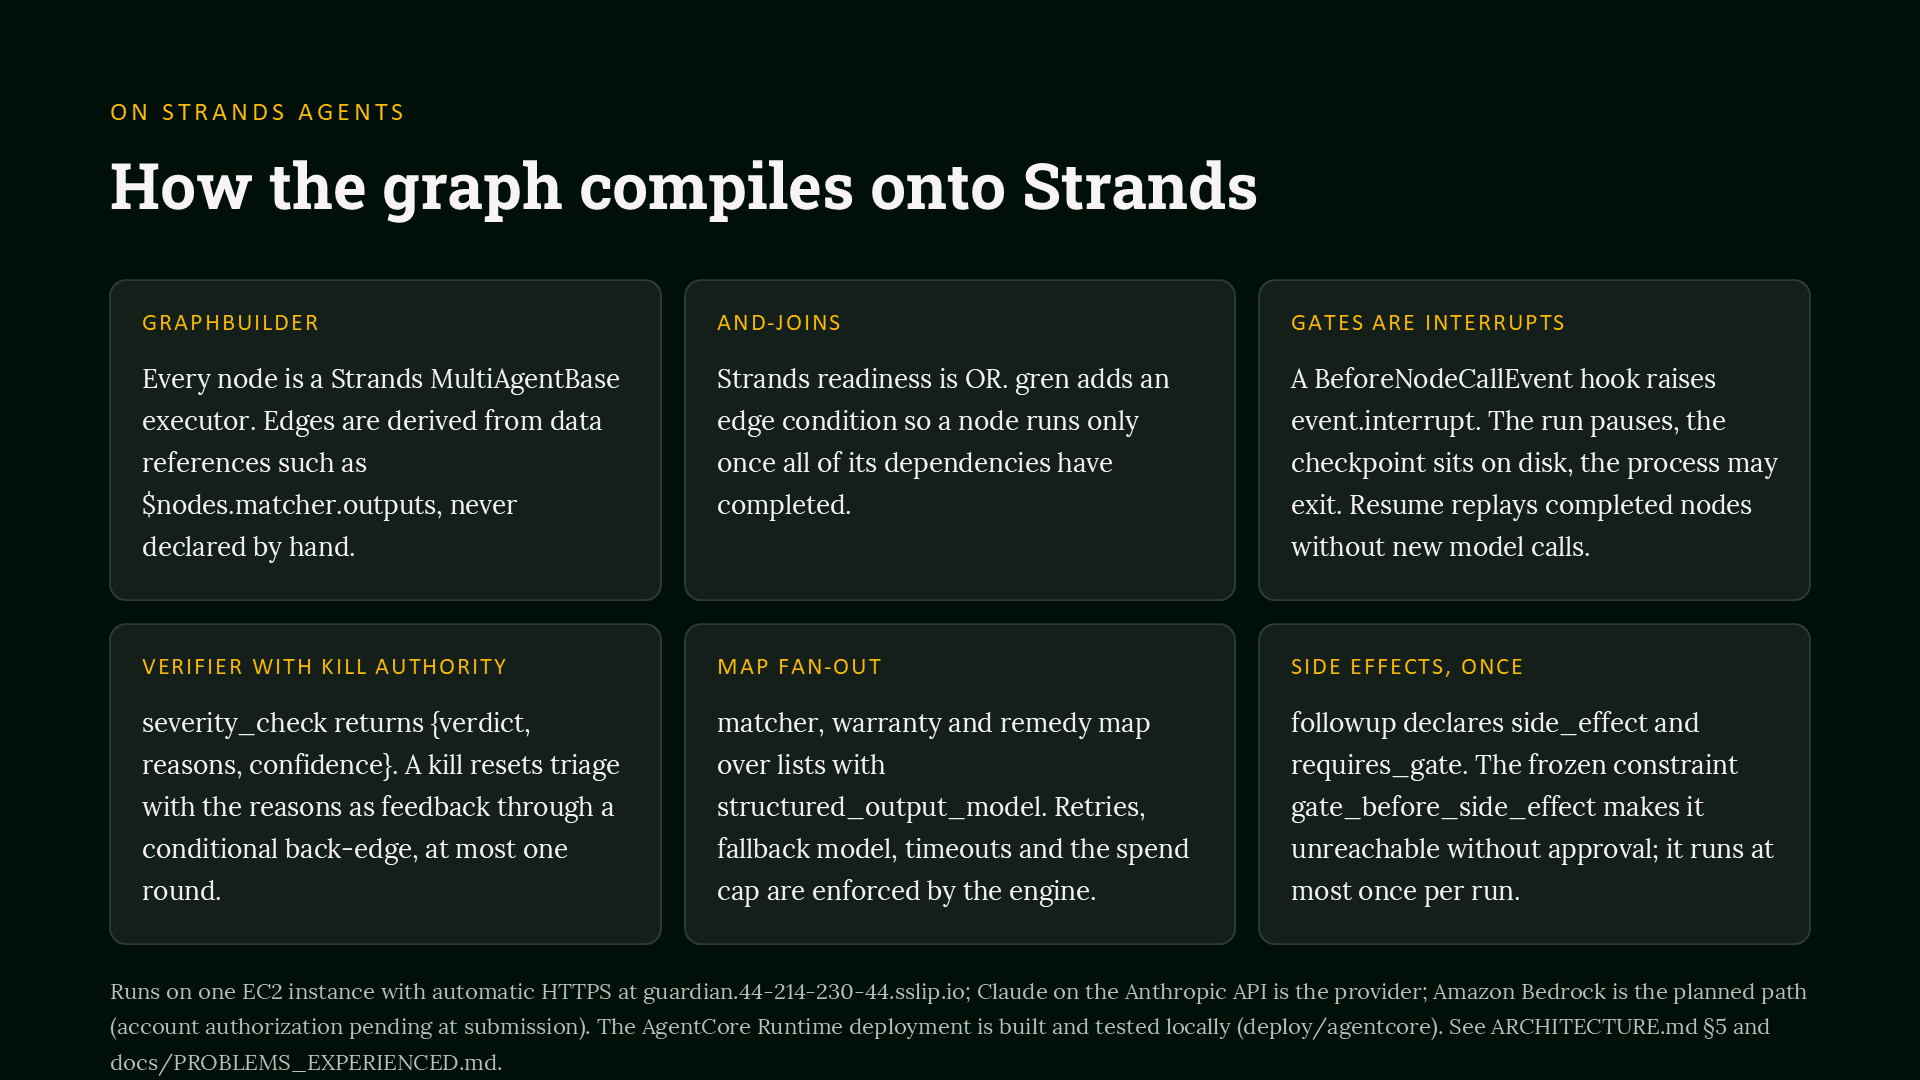
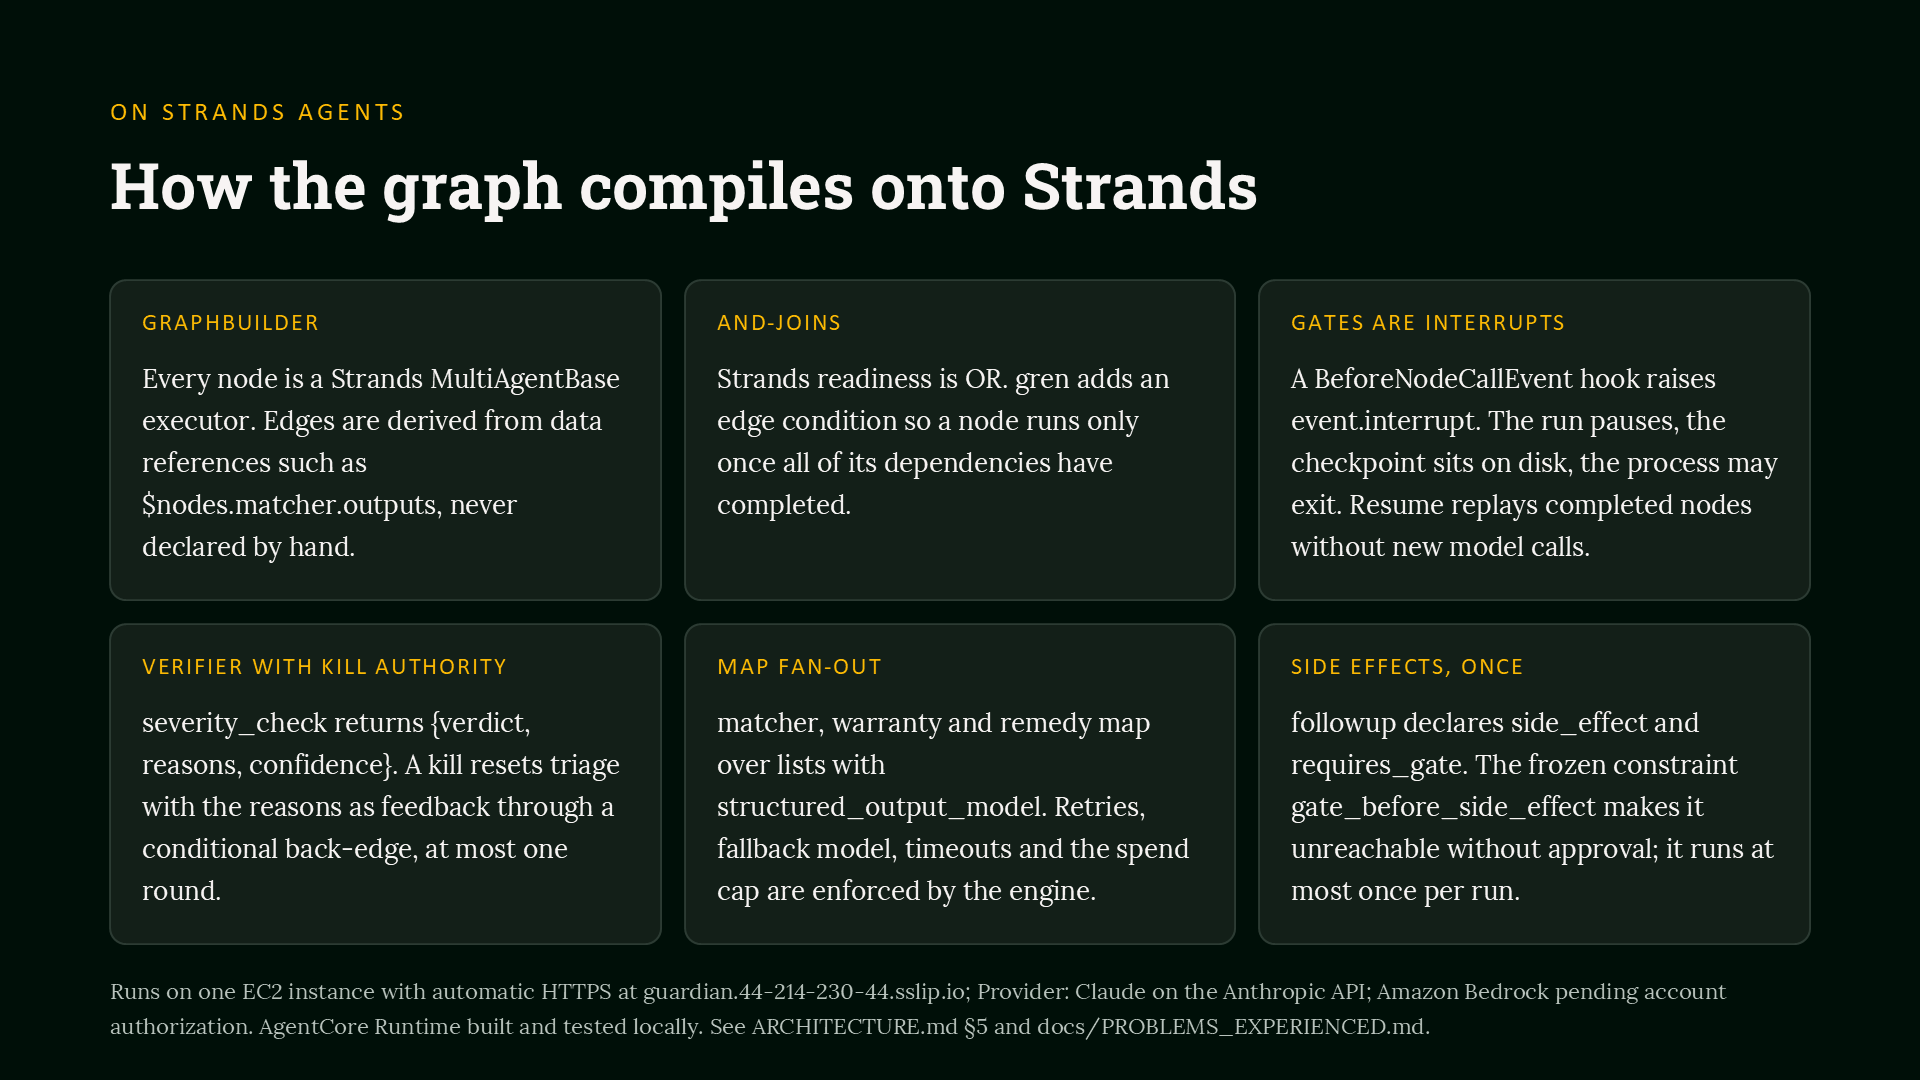
Deck footnote fits two lines; handoff note: the Anthropic fallback is live and the final video is recorded on it

Changed region(s): [[0.0625, 0.9167, 0.9375, 1.0]]

diff --git a/scripts/deck_content.py b/scripts/deck_content.py
@@ -199,7 +199,7 @@ SLIDES: list[dict] = [
             ("Map fan-out", "matcher, warranty and remedy map over lists with structured_output_model. Retries, fallback model, timeouts and the spend cap are enforced by the engine."),
             ("Side effects, once", "followup declares side_effect and requires_gate. The frozen constraint gate_before_side_effect makes it unreachable without approval; it runs at most once per run."),
         ],
-        "footnote": f"Runs on one EC2 instance with automatic HTTPS at {LIVE}; Claude on the Anthropic API is the provider; Amazon Bedrock is the planned path (account authorization pending at submission). The AgentCore Runtime deployment is built and tested locally (deploy/agentcore). See ARCHITECTURE.md §5 and docs/PROBLEMS_EXPERIENCED.md.",
+        "footnote": f"Runs on one EC2 instance with automatic HTTPS at {LIVE}; Provider: Claude on the Anthropic API; Amazon Bedrock pending account authorization. AgentCore Runtime built and tested locally. See ARCHITECTURE.md §5 and docs/PROBLEMS_EXPERIENCED.md.",
         "notes": "On Strands: every node is a MultiAgentBase executor in a GraphBuilder. Edges come from data references, with AND-join conditions. The gate is a Strands interrupt that survives a process exit. The verifier has kill authority with one bounded repair round, and side effects run once, behind the gate.",
     },
     {

diff --git a/read_this_labubu.md b/read_this_labubu.md
@@ -4,7 +4,7 @@
 
 1. Guardian runs end to end on gren and Strands. Run `guardian seed`, then `guardian serve`. Click the logo (or run `guardian sweep`). The sweep pulls live CPSC, NHTSA, and openFDA recalls. It matches them in code. Opus adjudicates the ambiguous pairs. A verifier checks the plan. The run stops at the household gate. After "Request full refund" in the dashboard, the agent writes and "sends" the remedy (to `var/household/outbox` until SES or SNS is configured). Then it schedules the follow-up. This was verified live on 2026-09-13 with real recalls (Boon NURSH bottles, Cade finger lights, Hampton Bay fan, 2019 Outback campaigns). 40 pytest tests cover it on the mock provider, including snoozes and late approvals. An approval releases the gate at once. A later approval forks the run from the gate.
 2. The web app (`web/`, Vite and React) implements the full design handoff: the six dashboard pages with the shell, the panels, and dark, RTL, and mobile modes. The Agent flow tab is the full gren trace workbench. It has runs with filters and the graph canvas with run banners. Its drawer has an Overview with the narrative of Guardian, a Timeline, filterable Events, Metrics, Tasks with gate approval, Spec, and Output. Its inspector shows fan-out detail and can fork a run. Blueprints show graphs that have not run yet, with "Run this graph". The data is live over SSE. `/flow/trace` is the same workbench in full screen. `docs/AGENT_FLOW.md` is the audit behind it. It also explains how each run shape reads. `npm run build` and `guardian serve` host the app at http://127.0.0.1:8787. `VITE_MOCK=1 npm run dev` runs it with no backend.
-3. AWS: the account (779457758734, us-east-1) is active. Guardian is live at **https://guardian.44-214-230-44.sslip.io** (one EC2 instance and Caddy TLS, made by `scripts/deploy_ec2.py`). `update` sends new code in about one minute. `logs` and `run` go through SSM. The store mirrors to the S3 state bucket. A systemd timer runs the sweep at 06:00 UTC. Reads are open. Actions need `GUARDIAN_API_TOKEN` from `.env` (Krish has it; open `<url>/?token=<token>` one time). One block remains on the AWS side: Bedrock is not authorized for this account yet. Each model and each region answers `Operation not allowed`. Even the Anthropic use-case form says "create a support case". Thus, the live server shows the household and pulls the feeds, but a sweep cannot complete until AWS Support authorizes Bedrock (case 178934068800881, opened 2026-09-13 at 19:04 EDT, answer promised within 24 h; see `docs/AWS_SETUP.md` section 3). Fallback for the video if Support is slow: put `ANTHROPIC_API_KEY` in `.env`. The same graphs then run on the Anthropic API. `GUARDIAN_DEPLOY_BRIDGE=anthropic` with `deploy_ec2.py update` puts the server on it. `deploy/agentcore` is the AgentCore path. It deploys only after AWS Support raises the AgentCore quotas of the account from 0 (requested in the same case). Not built yet: SES and SNS delivery beyond the outbox, and the grocery advisories of the Expanded tier.
+3. AWS: the account (779457758734, us-east-1) is active. Guardian is live at **https://guardian.44-214-230-44.sslip.io** (one EC2 instance and Caddy TLS, made by `scripts/deploy_ec2.py`). `update` sends new code in about one minute. `logs` and `run` go through SSM. The store mirrors to the S3 state bucket. A systemd timer runs the sweep at 06:00 UTC. Reads are open. Actions need `GUARDIAN_API_TOKEN` from `.env` (Krish has it; open `<url>/?token=<token>` one time). One block remains on the AWS side: Bedrock is not authorized for this account yet. Each model and each region answers `Operation not allowed`. Even the Anthropic use-case form says "create a support case". Thus, the live server shows the household and pulls the feeds, but a sweep cannot complete until AWS Support authorizes Bedrock (case 178934068800881, opened 2026-09-13 at 19:04 EDT, answer promised within 24 h; see `docs/AWS_SETUP.md` section 3). The fallback is live since 2026-09-13 23:45 EDT: `ANTHROPIC_API_KEY` and `GUARDIAN_DEPLOY_BRIDGE=anthropic` are in `.env` (never commit it), and `deploy_ec2.py update` put the server on the Anthropic API. The final demo video was recorded on it. The Anthropic API rejects `effort` for Haiku 4.5, so the graphs set effort on the Opus and Sonnet nodes only. `docs/PROBLEMS_EXPERIENCED.md` records the AWS problems for the write-up. `deploy/agentcore` is the AgentCore path. It deploys only after AWS Support raises the AgentCore quotas of the account from 0 (requested in the same case). Not built yet: SES and SNS delivery beyond the outbox, and the grocery advisories of the Expanded tier.
 4. Demo material (2026-09-13, Krish's session): `docs/deck/Guardian-Demo-Deck.pptx` is the deck (13 slides with speaker notes). `python scripts/build_deck.py --export` rebuilds it and the previews in `docs/deck/preview`. `scripts/record_demo.py` renders the slides and records the live site with Playwright (its own Chromium, one clip for each beat). It then assembles `var/demo/guardian-demo.mp4` and writes `docs/DEMO_SCRIPT.md` (timecodes, pace, and the words to say). `docs/architecture.png` is the architecture diagram (`docs/architecture_gen.py` draws it). The final recording must run on the live site after a model provider works: `python scripts/record_demo.py all --reset`. The reset seeds the household without the case-study fixtures, so the video shows real recalls only. Your scheduler is off on the EC2 instance (`--no-schedule` in the systemd unit); the timer at 06:00 UTC runs the sweep there. Locally, `guardian serve` runs your scheduler unless you pass `--no-schedule`.
 
 All other information is in `README.md` (quickstart, node table), `ARCHITECTURE.md` (how the graphs sit on Strands, where AWS attaches), `CLAUDE.md` (repository conventions for Claude sessions), `docs/AGENT_FLOW.md`, `docs/AWS_SETUP.md`, and the gren handoff in `gren/docs/HANDOFF.md`. The documents follow the ASD-STE100 style: short sentences, active voice, one instruction for each step.
